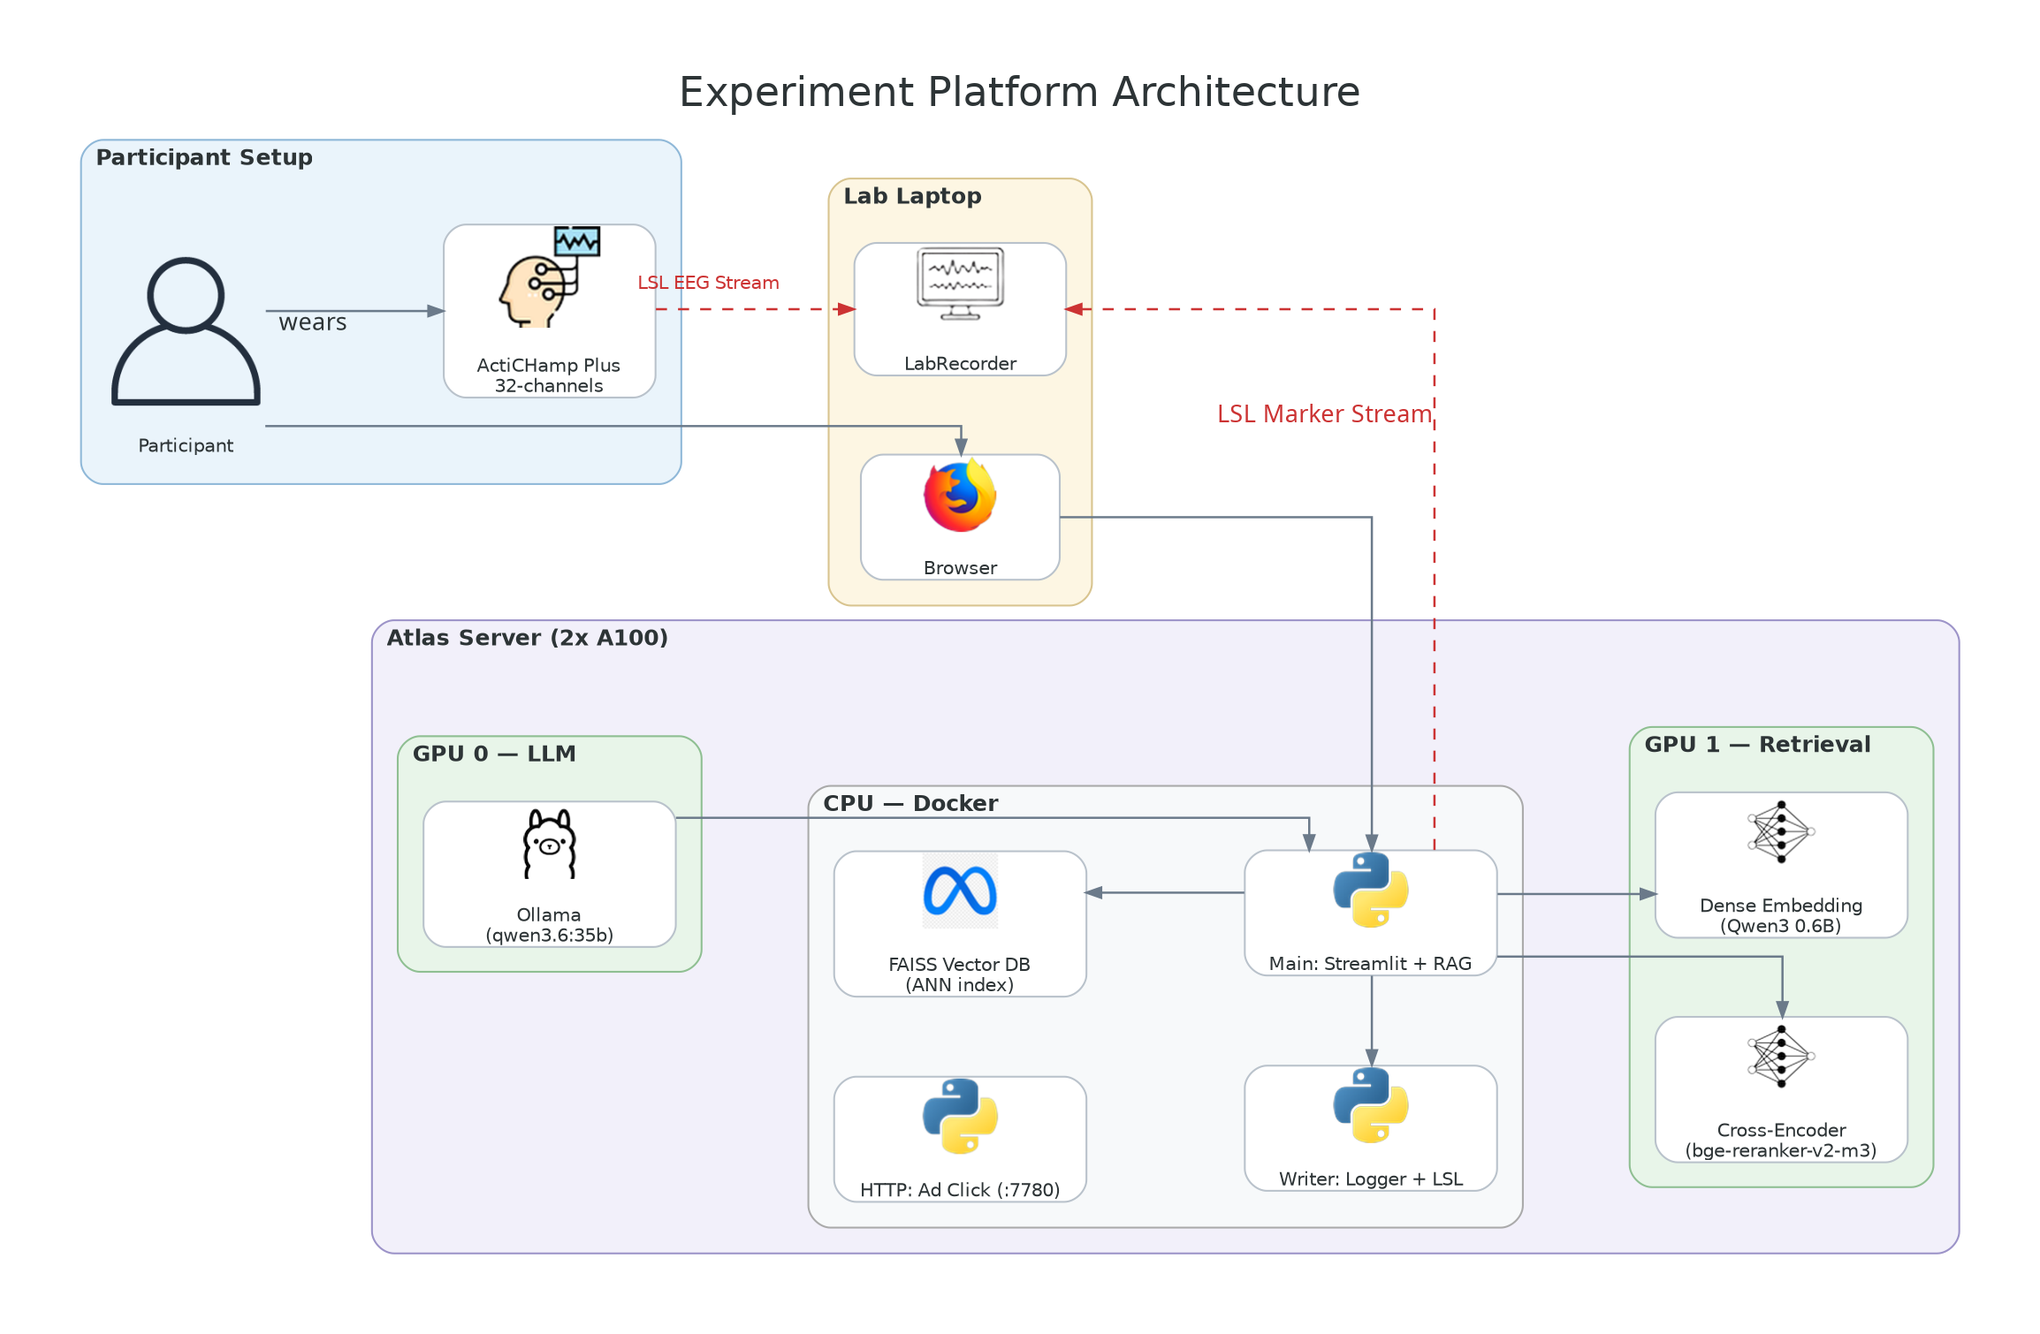
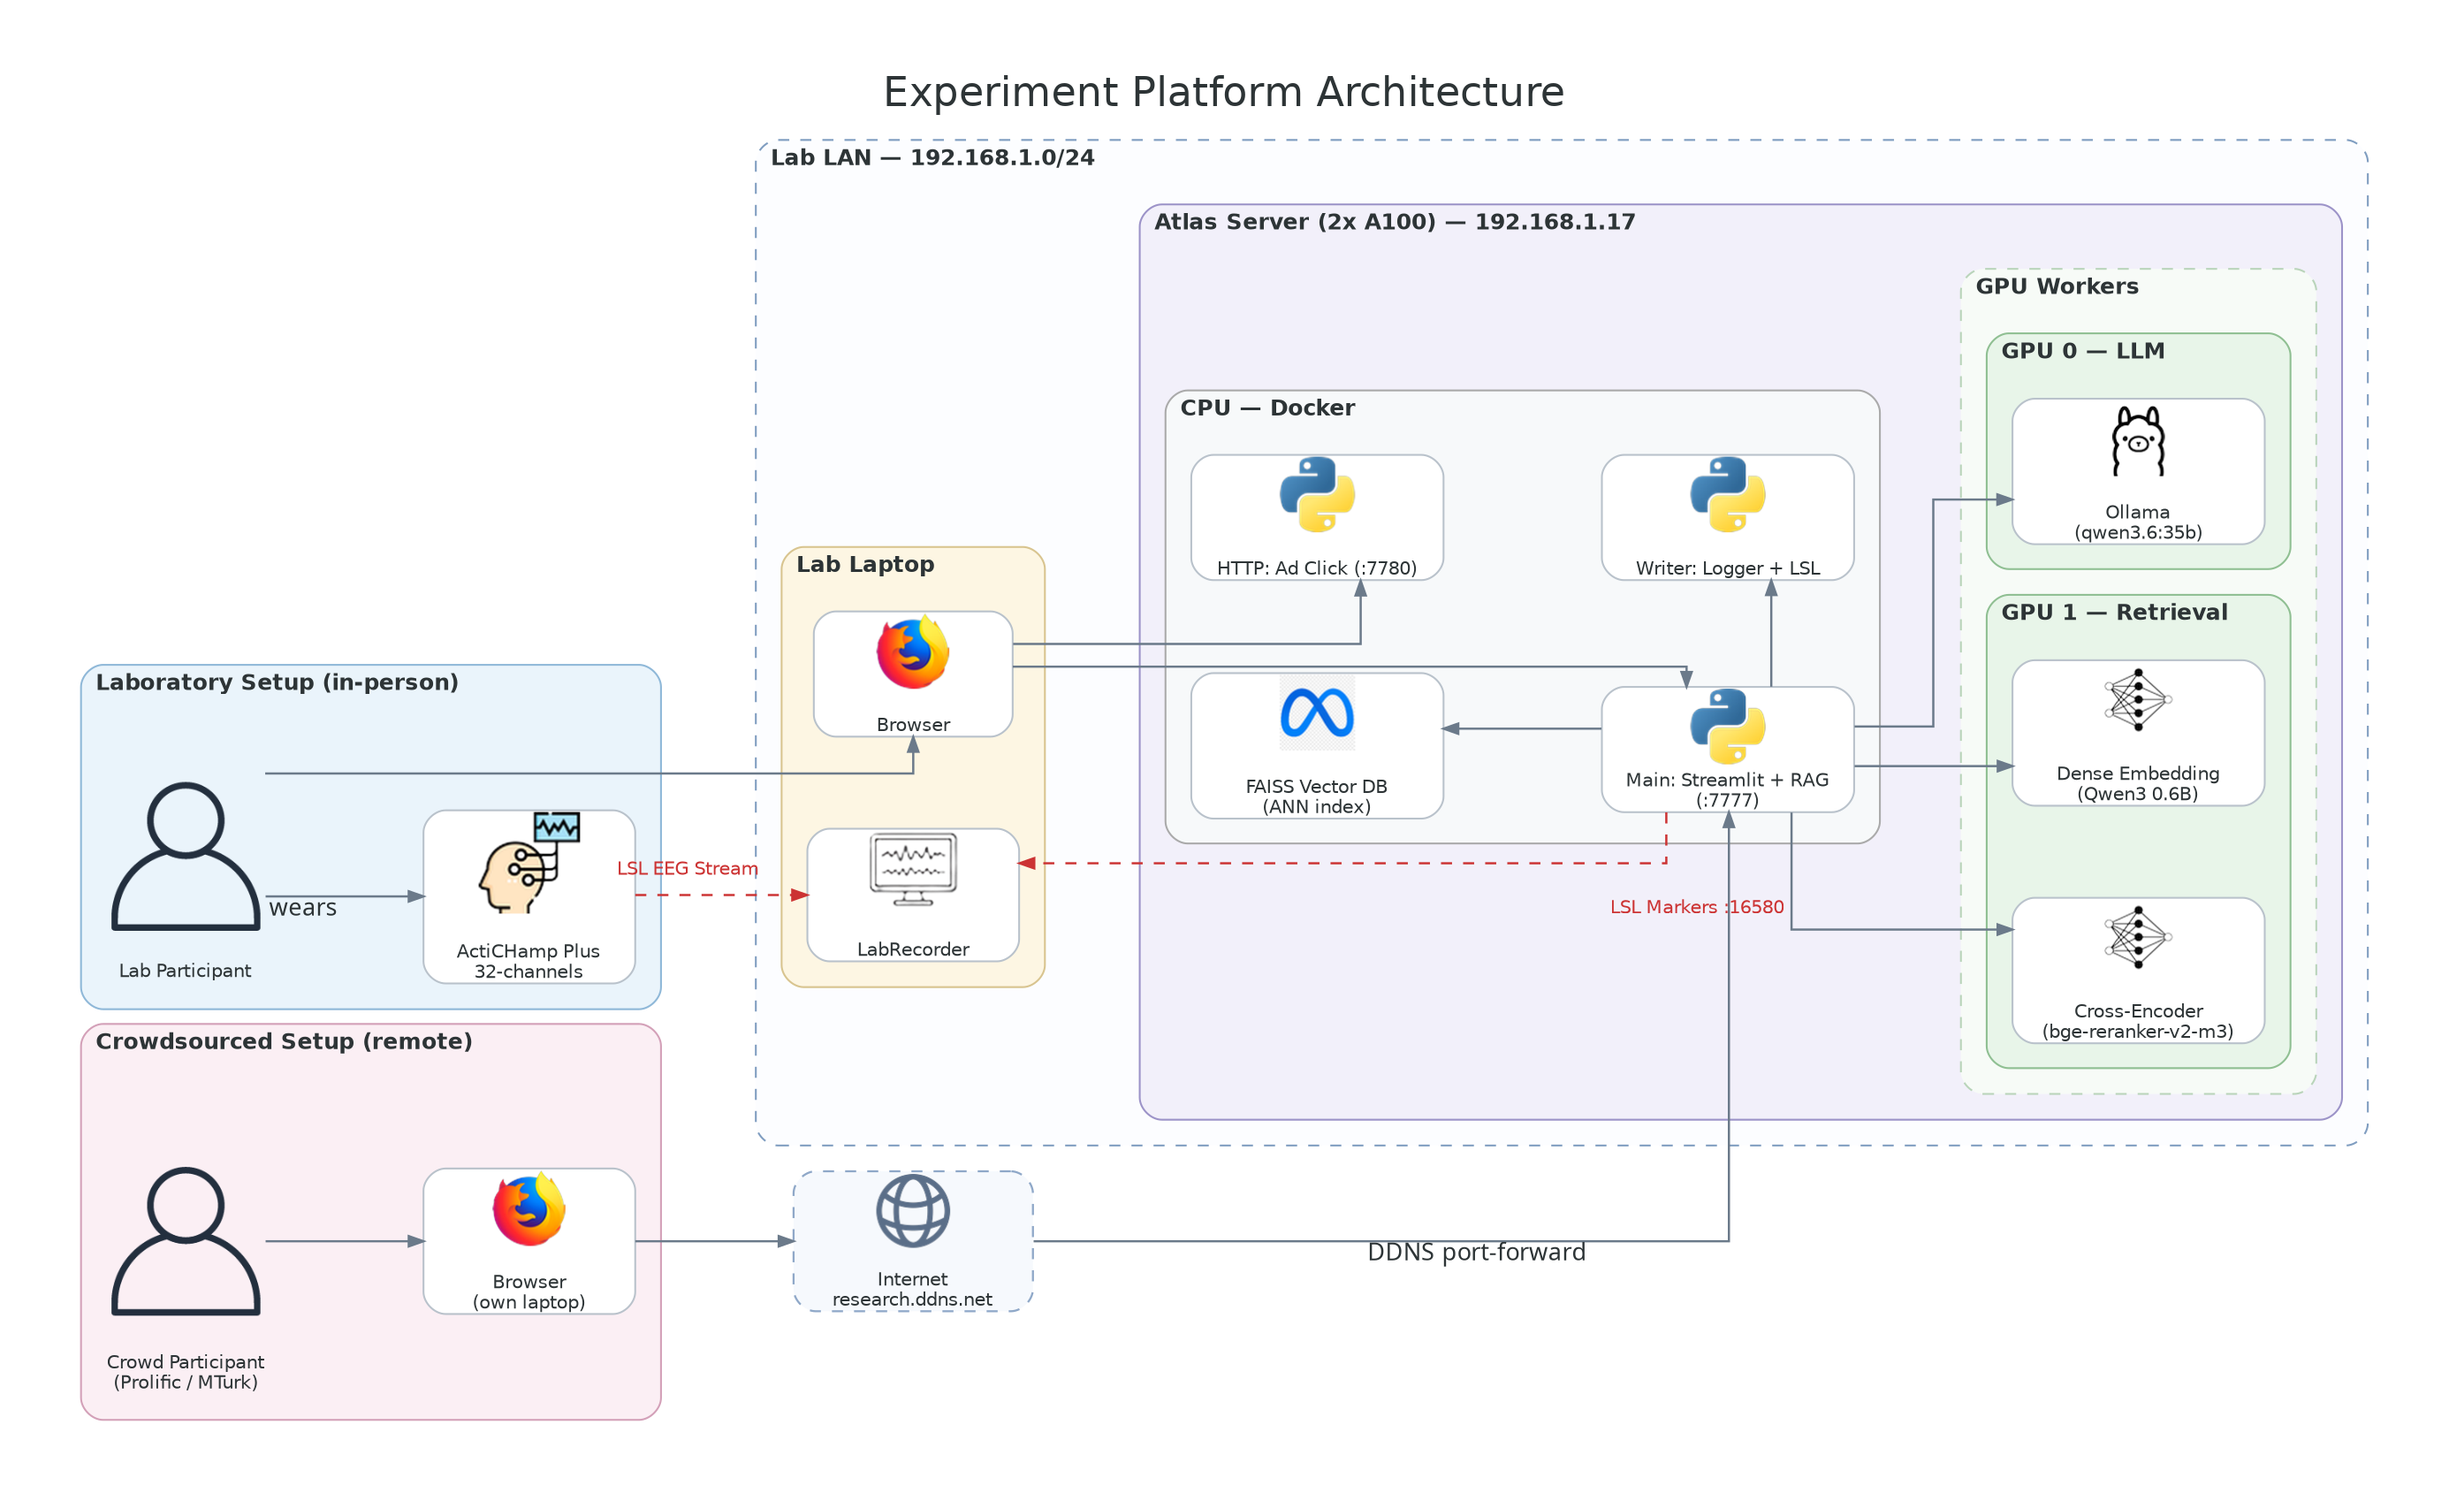
docs(architecture): reorder diagram so no HTTP edge crosses a GPU cluster
Docker now sits immediately right of the lab laptop and both GPU clusters
moved to its right, so the browser/internet edges reach Streamlit directly
instead of running through the GPU 0 box, and the three model requests leave
Main as one parallel fan. Ports moved into node labels so the two parallel
browser edges no longer carry ambiguous arrow labels.

diff --git a/src/project/docs/architecture/arch.py b/src/project/docs/architecture/arch.py
@@ -10,7 +10,7 @@ graph_attr = {
     "bgcolor": "white",
     "dpi": "150",
     "pad": "0.5",
-    "nodesep": "0.6",
+    "nodesep": "0.7",
     "ranksep": "1.2",
     "fontname": "Helvetica",
     "splines": "ortho",
@@ -26,13 +26,13 @@ node_attr = {
 cluster_base = {
     "fontsize": "12",
     "fontname": "Helvetica-Bold",
-    "style": "rounded",
     "margin": "14",
     "labeljust": "l",
 }
 
-def cluster_attr(bg, border):
-    return dict(cluster_base, bgcolor=bg, pencolor=border)
+def cluster_attr(bg, border, dashed=False):
+    style = "rounded,dashed" if dashed else "rounded"
+    return dict(cluster_base, bgcolor=bg, pencolor=border, style=style)
 
 edge_attr = {
     "fontsize": "10",
@@ -52,6 +52,14 @@ CARD = {
     "color": "#B9C2CB",
     "penwidth": "1.0",
 }
+# networks use a dashed border so they read as a shared medium, not a host
+NET = {
+    "shape": "box",
+    "style": "rounded,filled,dashed",
+    "fillcolor": "#F6F9FD",
+    "color": "#8FA8C8",
+    "penwidth": "1.1",
+}
 # at dpi=150 a 90px icon renders ~0.6in tall; heights sized so icon + label
 # fill the card snugly, keeping the icon/label group visually centered
 S = {"width": "1.5", "height": "0.95"}
@@ -69,50 +77,84 @@ with Diagram(
     outformat="png",
 ):
 
-    with Cluster("Participant Setup", graph_attr=cluster_attr("#EAF4FB", "#8FB8D8")):
-        participant = User("Participant", width="1.2")
+    # ── the two study arms, drawn symmetrically ──────────────────────────
+    with Cluster("Laboratory Setup (in-person)", graph_attr=cluster_attr("#EAF4FB", "#8FB8D8")):
+        lab_participant = User("Lab Participant", width="1.2")
         eeg = Custom("ActiCHamp Plus\n32-channels", os.path.join(RES, "eeg-headset.png"),
                      width="1.6", height="1.3", **IMG, **CARD)
 
-    with Cluster("Lab Laptop", graph_attr=cluster_attr("#FDF6E3", "#D8C48F")):
-        labrec = Custom("LabRecorder", os.path.join(RES, "recording.png"),
-                        width="1.6", height="1.0", **IMG, **CARD)
-        browser = Custom("Browser", os.path.join(RES, "firefox.png"), **S, **IMG, **CARD)
+    with Cluster("Crowdsourced Setup (remote)", graph_attr=cluster_attr("#FBEFF4", "#D3A0B8")):
+        crowd_participant = User("Crowd Participant\n(Prolific / MTurk)", width="1.2")
+        crowd_browser = Custom("Browser\n(own laptop)", os.path.join(RES, "firefox.png"),
+                               width="1.6", height="1.1", **IMG, **CARD)
 
-    with Cluster("Atlas Server (2x A100)", graph_attr=cluster_attr("#F2F0FA", "#9C93C8")):
-        with Cluster("GPU 0 — LLM", graph_attr=cluster_attr("#E8F5E9", "#8FBF92")):
-            ollama = Custom("Ollama\n(qwen3.6:35b)", os.path.join(RES, "ollama.png"), **L, **IMG, **CARD)
+    inet = Custom("Internet\nresearch.ddns.net", os.path.join(RES, "globe.png"),
+                  width="1.8", height="1.05", **IMG, **NET)
 
-        with Cluster("CPU — Docker", graph_attr=cluster_attr("#F7F9FA", "#AAAAAA")):
-            main = Custom("Main: Streamlit + RAG", os.path.join(RES, "python.png"), **M, **IMG, **CARD)
-            writer = Custom("Writer: Logger + LSL", os.path.join(RES, "python.png"), **M, **IMG, **CARD)
-            click = Custom("HTTP: Ad Click (:7780)", os.path.join(RES, "python.png"), **M, **IMG, **CARD)
-            faiss = Custom("FAISS Vector DB\n(ANN index)", os.path.join(RES, "meta.png"), **L, **IMG, **CARD)
-            # grid layout (faiss/click left column, main/writer right) doubles
-            # as the real data flow: dir="back" renders the arrow as main->faiss
-            faiss >> Edge(style="invis") >> main
-            main >> Edge(constraint="false") >> faiss
-            click >> Edge(style="invis") >> writer
-            main >> Edge(constraint="false") >> writer
+    # ── everything on the lab subnet, incl. the server itself ────────────
+    with Cluster("Lab LAN — 192.168.1.0/24", graph_attr=cluster_attr("#FCFDFF", "#7F9DC0", dashed=True)):
 
-        with Cluster("GPU 1 — Retrieval", graph_attr=cluster_attr("#E8F5E9", "#8FBF92")):
-            rerank = Custom("Cross-Encoder\n(bge-reranker-v2-m3)", os.path.join(RES, "neural.png"), **L, **IMG, **CARD)
-            embed = Custom("Dense Embedding\n(Qwen3 0.6B)", os.path.join(RES, "neural.png"), **L, **IMG, **CARD)
+        with Cluster("Lab Laptop", graph_attr=cluster_attr("#FDF6E3", "#D8C48F")):
+            labrec = Custom("LabRecorder", os.path.join(RES, "recording.png"),
+                            width="1.6", height="1.0", **IMG, **CARD)
+            browser = Custom("Browser", os.path.join(RES, "firefox.png"), **S, **IMG, **CARD)
 
-        # keep GPU 0 fully left of the Docker cluster, vertically centered
-        ollama >> Edge(style="invis") >> faiss
-        ollama >> Edge(style="invis") >> click
-        ollama >> Edge(style="invis") >> writer
-        ollama >> Edge() >> main
-        main >> embed
-        main >> rerank
+        with Cluster("Atlas Server (2x A100) — 192.168.1.17",
+                     graph_attr=cluster_attr("#F2F0FA", "#9C93C8")):
+            with Cluster("CPU — Docker", graph_attr=cluster_attr("#F7F9FA", "#AAAAAA")):
+                main = Custom("Main: Streamlit + RAG\n(:7777)", os.path.join(RES, "python.png"), **M, **IMG, **CARD)
+                writer = Custom("Writer: Logger + LSL", os.path.join(RES, "python.png"), **M, **IMG, **CARD)
+                click = Custom("HTTP: Ad Click (:7780)", os.path.join(RES, "python.png"), **M, **IMG, **CARD)
+                faiss = Custom("FAISS Vector DB\n(ANN index)", os.path.join(RES, "meta.png"), **L, **IMG, **CARD)
+                # grid layout (faiss/click left column, main/writer right) doubles
+                # as the real data flow
+                faiss >> Edge(style="invis") >> main
+                main >> Edge(constraint="false") >> faiss
+                click >> Edge(style="invis") >> writer
+                main >> Edge(constraint="false") >> writer
 
-    participant >> Edge(xlabel="wears") >> eeg
+            # the wrapper carries no information of its own, but it is what makes
+            # dot keep GPU 0 above GPU 1 instead of packing them by size
+            with Cluster("GPU Workers", graph_attr=cluster_attr("#F7FBF7", "#B9D4BA", dashed=True)):
+                with Cluster("GPU 0 — LLM", graph_attr=cluster_attr("#E8F5E9", "#8FBF92")):
+                    ollama = Custom("Ollama\n(qwen3.6:35b)", os.path.join(RES, "ollama.png"),
+                                    **L, **IMG, **CARD)
+
+                with Cluster("GPU 1 — Retrieval", graph_attr=cluster_attr("#E8F5E9", "#8FBF92")):
+                    embed = Custom("Dense Embedding\n(Qwen3 0.6B)", os.path.join(RES, "neural.png"),
+                                   **L, **IMG, **CARD)
+                    rerank = Custom("Cross-Encoder\n(bge-reranker-v2-m3)", os.path.join(RES, "neural.png"),
+                                    **L, **IMG, **CARD)
+
+            # all three model services are called by Main, so the GPUs sit to its
+            # right and the three requests leave as one parallel fan
+            main >> ollama
+            main >> embed
+            main >> rerank
+
+    # ── lab arm: EEG stays local to the laptop, app traffic on the LAN ───
+    lab_participant >> Edge(xlabel="wears") >> eeg
     eeg >> Edge(style="dashed", color="#CC3333",
                 taillabel="LSL EEG Stream", labelfontsize="10",
                 labelfontcolor="#CC3333", labelfontname="Helvetica",
                 labeldistance="3.2", labelangle="25") >> labrec
-    participant >> Edge() >> browser
+    lab_participant >> Edge() >> browser
+    # keep the whole server a rank right of the laptop so the LAN box reads
+    # left-to-right instead of stacking the two hosts vertically. Docker is the
+    # first thing right of the laptop, so no browser edge crosses a GPU box.
+    browser >> Edge(style="invis") >> click
     browser >> Edge() >> main
-    main >> Edge(style="dashed", color="#CC3333", fontcolor="#CC3333",
-                 xlabel="LSL Marker Stream", constraint="false") >> labrec
+    browser >> Edge(constraint="false") >> click
+    main >> Edge(style="dashed", color="#CC3333",
+                 taillabel="LSL Markers :16580", labelfontsize="10",
+                 labelfontcolor="#CC3333", labelfontname="Helvetica",
+                 labeldistance="5.5", labelangle="18",
+                 constraint="false") >> labrec
+
+    # ── crowd arm: never touches the lab laptop; enters via port-forward ─
+    # invisible: pins the crowd arm to the same starting rank as the lab arm
+    # so the two setups line up symmetrically on the left edge
+    crowd_participant >> Edge(style="invis") >> eeg
+    crowd_participant >> Edge() >> crowd_browser
+    crowd_browser >> Edge() >> inet
+    inet >> Edge(xlabel="DDNS port-forward") >> main

diff --git a/src/project/docs/architecture/README.md b/src/project/docs/architecture/README.md
@@ -4,8 +4,13 @@ Two figures, both generated with the [diagrams](https://diagrams.mingrammer.com/
 (a Graphviz wrapper) and sharing one visual language: rounded colored clusters, white
 icon "cards", muted slate-gray arrows, orthogonal routing.
 
-- **`architecture.png`** (from `arch.py`) — the experiment platform: participant/EEG
-  setup, lab laptop (Browser + LabRecorder), and the Atlas server's GPU/CPU layout.
+- **`architecture.png`** (from `arch.py`) — the experiment platform: the two study arms
+  (in-person lab, remote crowdsourced), the `192.168.1.0/24` lab subnet as a dashed
+  boundary, and the Atlas server's CPU/GPU layout. Reading order is left-to-right along
+  the request path: browser → Docker (Streamlit) → GPU model services. Docker sits
+  immediately right of the laptop so no HTTP edge has to cross a GPU cluster, and ports
+  live in node labels (`:7777`, `:7780`, `:16580`) rather than on the arrows, which keeps
+  the two parallel browser edges label-free and unambiguous.
 - **`catalog_pipeline.png`** (from `catalog_pipeline.py`) — the offline catalog
   preprocessing pipeline: HuggingFace source → filter/remap → dedup → merge → embed →
   FAISS index. Laid out left-to-right (`direction="LR"`) since it's a strictly
